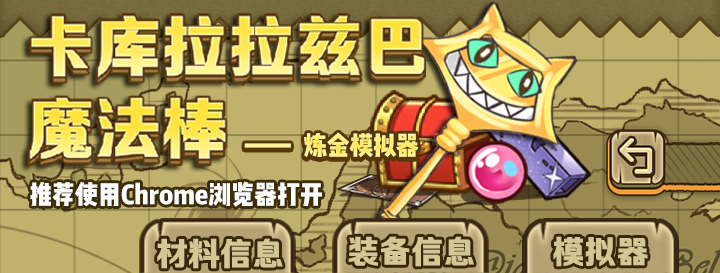
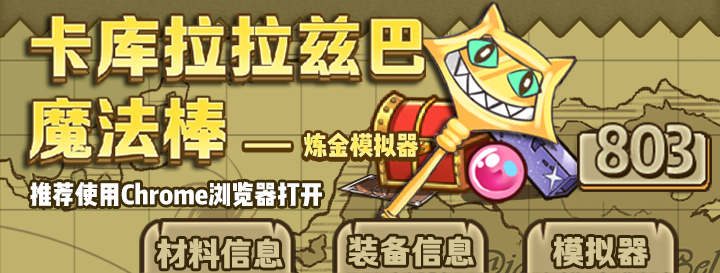
v1.5
* 803警告
* 修复了部分浏览器 未选中的tab被马赛克的bug
* 未筛选成分时也按照成分总数排序

Changed region(s): [[0.7944, 0.4396, 1.0, 0.7326]]

diff --git a/index.html b/index.html
@@ -1,5 +1,5 @@
 <!DOCTYPE html>
-<html><head><meta http-equiv="Content-Type" content="text/html; charset=utf-8" /><meta content="width=device-width, initial-scale=1.0, maximum-scale=1.0, user-scalable=no" name="viewport" /><title>卡库拉拉兹巴魔法棒 - 卡露蒂亚城乡结合部</title><script async src="https://www.googletagmanager.com/gtag/js?id=UA-119962177-1"></script><script>window.dataLayer = window.dataLayer || [];function gtag(){dataLayer.push(arguments);}gtag('js', new Date());gtag('config', 'UA-119962177-1');</script><script src="/js/jquery-1.11.1.min.js"></script><script src="items.js"></script><script src="simulator.js"></script><script src="mobile.js"></script><script src="filter.js"></script><script src="tabcontrol.js"></script><script src="info.js"></script><link rel="stylesheet" type="text/css" href="styles.css" /><link type="favicon" rel="shortcut icon" href="favicon.ico" /></head><body><div class="unselectable" onselectstart="return false;" unselectable="on" id="main"><div id="p1"><div class="tab" style="background-image:url(material.png);left:19.25vw;"></div><div class="tab" style="background-image:url(equip.png);left:46.1vw;"></div><div class="tab" style="background-image:url(sim.png);left:72.3vw;"></div></div><div class="hr"></div><div class="tabd" id="materials"></div><div class="tabd" id="equips"></div><div class="tabd"><div id="p2"><div style="padding-top:1.38vw;"><span class="select"><img src="empty.png" /></span>
+<html><head><meta http-equiv="Content-Type" content="text/html; charset=utf-8" /><meta content="width=device-width, initial-scale=1.0, maximum-scale=1.0, user-scalable=no" name="viewport" /><title>卡库拉拉兹巴魔法棒 - 卡露蒂亚城乡结合部</title><script async src="https://www.googletagmanager.com/gtag/js?id=UA-119962177-1"></script><script>window.dataLayer = window.dataLayer || [];function gtag(){dataLayer.push(arguments);}gtag('js', new Date());gtag('config', 'UA-119962177-1');</script><script src="/js/jquery-1.11.1.min.js"></script><script src="items.js"></script><script src="simulator.js"></script><script src="mobile.js"></script><script src="filter.js"></script><script src="tabcontrol.js"></script><script src="info.js"></script><script src="803.js"></script><link rel="stylesheet" type="text/css" href="styles.css" /><link type="favicon" rel="shortcut icon" href="favicon.ico" /></head><body><div class="unselectable" onselectstart="return false;" unselectable="on" id="main"><div id="p1"><div class="tab" style="background-image:url(material.png);left:19.25vw;"></div><div class="tab" style="background-image:url(equip.png);left:46.1vw;"></div><div class="tab" style="background-image:url(sim.png);left:72.3vw;"></div><div id="803btn" style="left: 80vw;top: 16vw; width: 19vw;height: 11vw; position: absolute;"></div></div><div class="hr"></div><div class="tabd" id="materials"></div><div class="tabd" id="equips"></div><div class="tabd"><div id="p2"><div style="padding-top:1.38vw;"><span class="select"><img src="empty.png" /></span>
 <span class="select"><img src="empty.png" /></span>
 <span class="select"><img src="empty.png" /></span>
-<span class="select"><img src="empty.png" /></span><img src="toggle.png" id="toggle" onclick="toggleSelector()" /></div></div><div class="hr"></div><div id="p3"><div id="result"><table><tbody id="rslttable"></tbody></table></div><div id="state"></div></div></div><div class="hr"></div><div id="selector"><div id="sb"></div><div id="sc"><div id="filter"><button class="filter d2" ftype="rarity">品质</button><button class="filter d2" ftype="2">金属</button><button class="filter d2" ftype="6">粘液</button><button class="filter d2" ftype="7">魔力</button><button class="filter d2" ftype="8">宝石</button><button class="filter d2" ftype="9">食物</button><br /><button class="filter d1" ftype="0">木</button><button class="filter d1" ftype="1">布</button><button class="filter d1" ftype="3">石</button><button class="filter d1" ftype="4">花</button><button class="filter d1" ftype="5">骨</button><button class="filter d1" ftype="10">水</button><button class="filter d1" ftype="11">火</button><button class="filter d1" ftype="12">地</button><button class="filter d1" ftype="13">风</button></div><div id="sl"></div></div></div><div id="p4"><div id="license"><a rel="license" href="http://creativecommons.org/licenses/by-nc-sa/3.0/cn/"><img alt="知识共享许可协议" style="border-width:0;min-width:20%;" src="https://i.creativecommons.org/l/by-nc-sa/3.0/cn/80x15.png" /></a><br />本作品采用<a rel="license" href="http://creativecommons.org/licenses/by-nc-sa/3.0/cn/">知识共享署名-非商业性使用-相同方式共享 3.0 中国大陆许可协议</a>进行许可</div></div></div></body></html>
+<span class="select"><img src="empty.png" /></span><img src="toggle.png" id="toggle" onclick="toggleSelector()" /></div></div><div class="hr"></div><div id="p3"><div id="result"><table><tbody id="rslttable"></tbody></table></div><div id="state"></div></div></div><div class="hr"></div><div id="selector"><div id="sb"></div><div id="sc"><div id="filter"><button class="filter d2" ftype="rarity">品质</button><button class="filter d2" ftype="2">金属</button><button class="filter d2" ftype="6">粘液</button><button class="filter d2" ftype="7">魔力</button><button class="filter d2" ftype="8">宝石</button><button class="filter d2" ftype="9">食物</button><br /><button class="filter d1" ftype="0">木</button><button class="filter d1" ftype="1">布</button><button class="filter d1" ftype="3">石</button><button class="filter d1" ftype="4">花</button><button class="filter d1" ftype="5">骨</button><button class="filter d1" ftype="10">水</button><button class="filter d1" ftype="11">火</button><button class="filter d1" ftype="12">地</button><button class="filter d1" ftype="13">风</button></div><div id="sl"></div></div></div><div id="p4"><div id="license"><a rel="license" href="http://creativecommons.org/licenses/by-nc-sa/3.0/cn/"><img alt="知识共享许可协议" style="border-width:0;min-width:20%;" src="https://i.creativecommons.org/l/by-nc-sa/3.0/cn/80x15.png" /></a><br />本作品采用<a rel="license" href="http://creativecommons.org/licenses/by-nc-sa/3.0/cn/">知识共享署名-非商业性使用-相同方式共享 3.0 中国大陆许可协议</a>进行许可</div></div></div><div id="803" style="position: absolute; width: 80vw; left: 6vw; top: 10vw; background: rgba(255,255,255,.8); z-index: 803; border-radius: 8vw; box-shadow: 10px 10px 5px rgba(0,0,0,.5); padding: 4vw; font-size: 4vw; opacity: 0; display: none;"><p style="font-weight: bold; font-size: 7vw; margin: 2vw;">803事件相关</p>起因：牧羊人之心运营组成员点点(直播中MIO的cos者)实名在微博平台指出第一弹某领导对其进行性骚扰 <a href="https://m.weibo.cn/detail/4266433066675532">微博链接</a><br>过程：第一弹运营组被从官群移除(1.8群除外)<br>现状：第一弹发表声明，运营组已集体离职。<br><br>ps：此事与开发组无关。牧羊人运行照常，联动可能受影响。但数据和内容都不会受影响，请各位玩家理智看待，不要随意毁号号，派遣魔物娘，抽空氪金，退坑等。<br>pps: 咱不是官方，结合部是民间组织_(:зゝ∠)_</div></body></html>

diff --git a/filter.js b/filter.js
@@ -31,18 +31,21 @@ function filter(materials) {
 		if (filterRules[0] != 0 && materials[i].rarity != filterRules[0]) continue
 		var f = true
 		materials[i].value = 0
-		for (var j = 1; j < filterRules.length; ++j) if (materials[i].ingredients[filterRules[j]] <= 0) {
+		if (filterRules.length == 1) {
+			for (var j = 0; j < materials[i].ingredients.length; ++j) materials[i].value += materials[i].ingredients[j]
+		} else for (var j = 1; j < filterRules.length; ++j) if (materials[i].ingredients[filterRules[j]] <= 0) {
 			f = false
 			break
 		} else materials[i].value += materials[i].ingredients[filterRules[j]]
 		if (f) foo.push(materials[i])
 	}
 	foo.sort(function(a, b){
-		if (a.value == 0) {
+		if (false && a.value == 0) {
 			if (a.rarity != b.rarity) return b.rarity - a.rarity
 			return a.type - b.type
 		}
 		if (a.value != b.value) return b.value - a.value
+		if (a.rarity != b.rarity) return b.rarity - a.rarity
 		return a.type - b.type
 	})
 	return foo

diff --git a/tabcontrol.js b/tabcontrol.js
@@ -5,7 +5,7 @@ $(function(){
 	for (var i = 0; i < $tabs.length; ++i) {
 		$tabs[i].tab = i
 		$tabs[i].onclick = function() { selectTab(this.tab) }
-		$tabs[i].style.backgroundSize = "0"
+		$tabs[i].style.opacity = 0
 	}
 	selectTab(2)
 })
@@ -16,10 +16,10 @@ function selectTab(index) {
 	var $tabs = $(".tab")
 	var $tabdivs = $(".tabd")
 	if (selectedTab != undefined) {
-		$tabs[selectedTab].style.backgroundSize = "0" // 这种写法我自己都想吐槽。。
+		$tabs[selectedTab].style.opacity = 0
 		$tabdivs[selectedTab].style.display = "none"
 	}
-	$tabs[index].style.backgroundSize = ""
+	$tabs[index].style.opacity = ""
 	$tabdivs[index].style.display = "block"
 	if (index != 2) hideSelector()
 	selectedTab = index

diff --git a/803.js b/803.js
@@ -1,0 +1,18 @@
+var showing803 = false
+
+$(function() {
+	$("#803btn")[0].onclick = function() {
+		if (showing803) return;
+		showing803 = true
+		console.log("xxx")
+		$("#803").css("display", "block").animate({top: "20vw", opacity: "1"}, 800, function() {
+			document.body.onclick = function() {
+				document.body.onclick = null
+				$("#803").animate({top: "30vw", opacity: "0"}, 800, function() {
+					$("#803").css("display", "none").css("top", "10vw")
+					showing803 = false
+				})
+			}
+		})
+	}
+})
